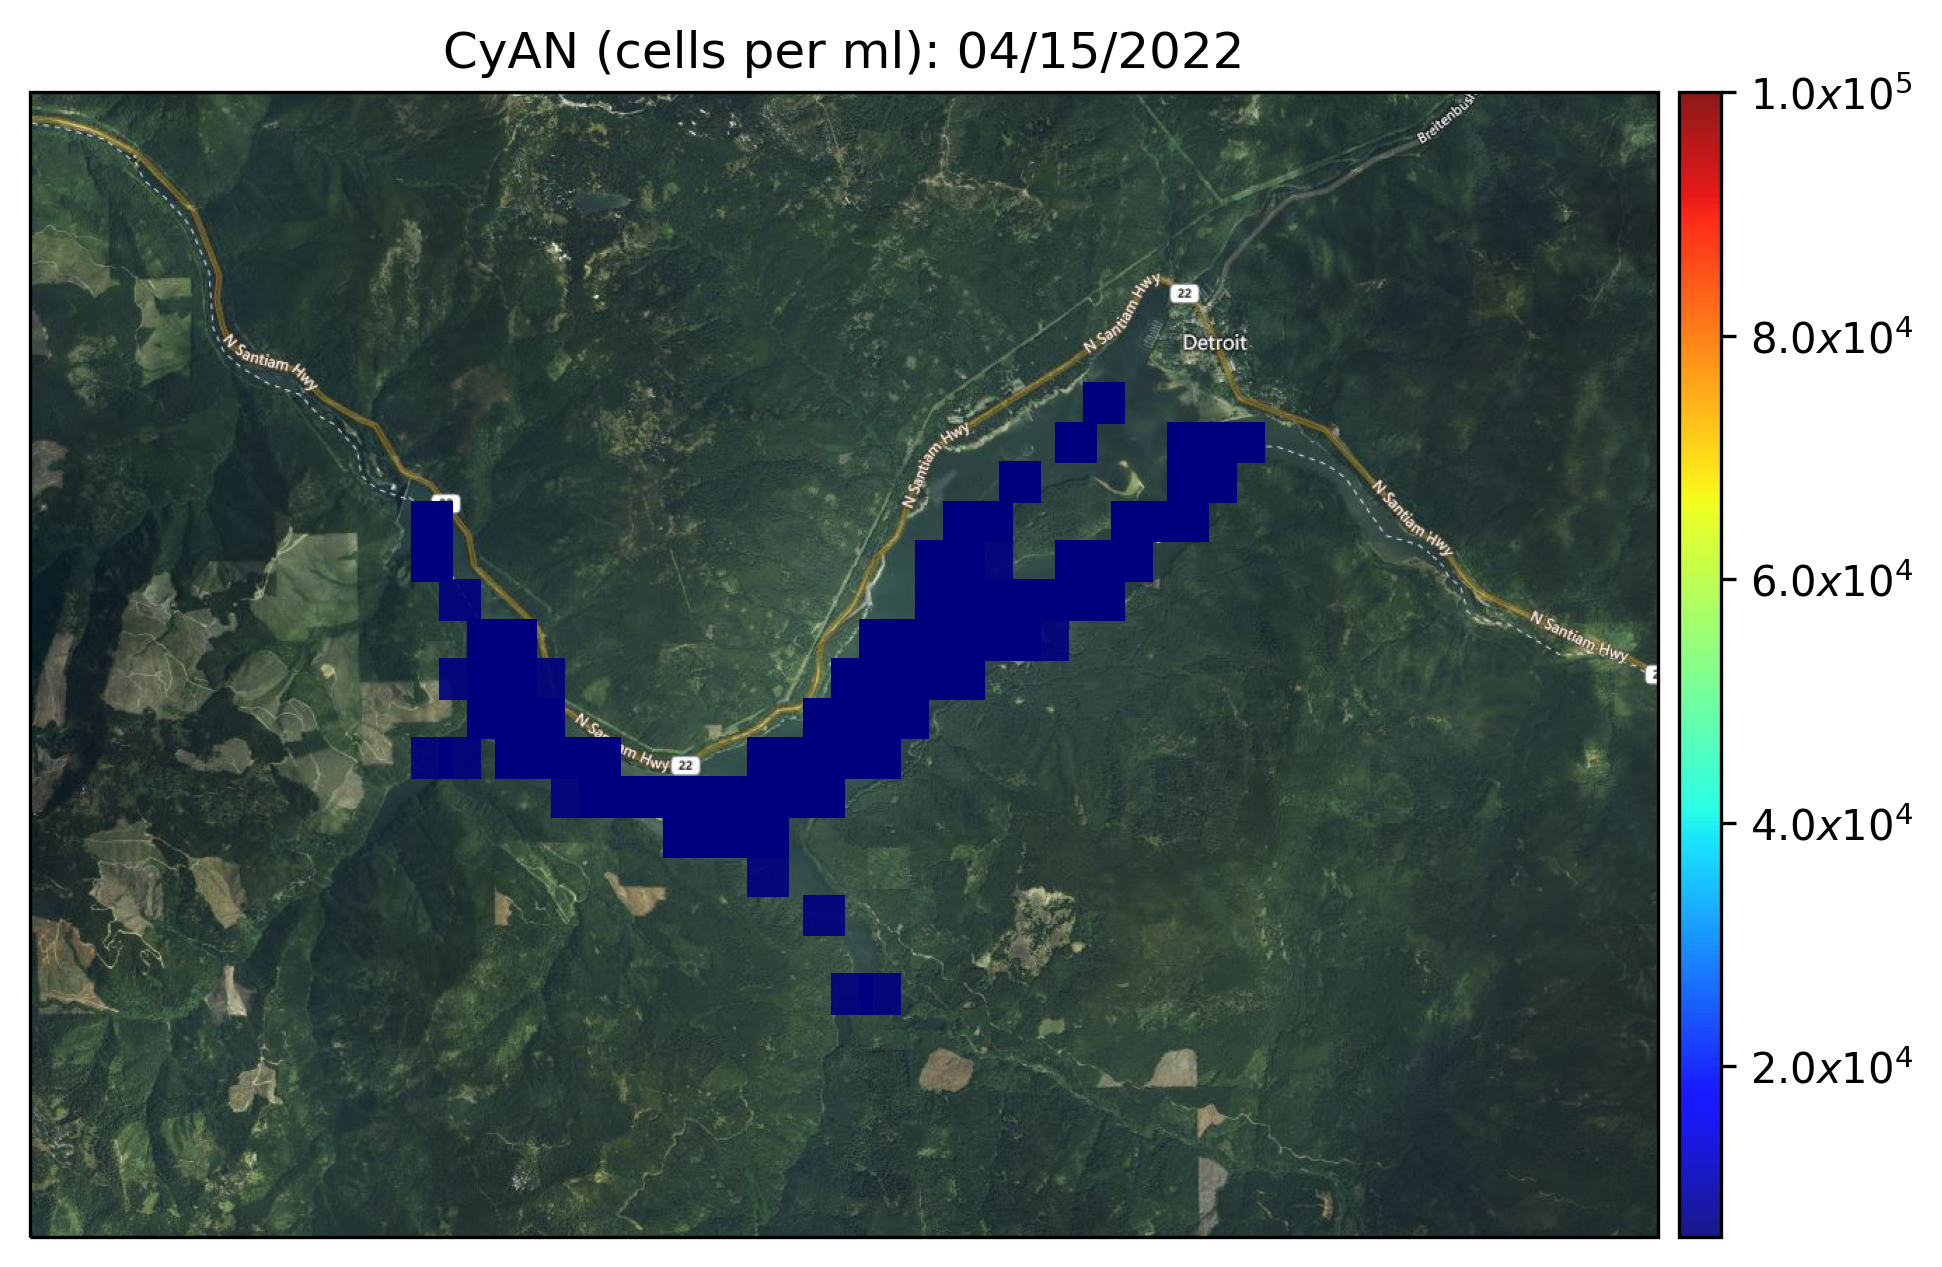
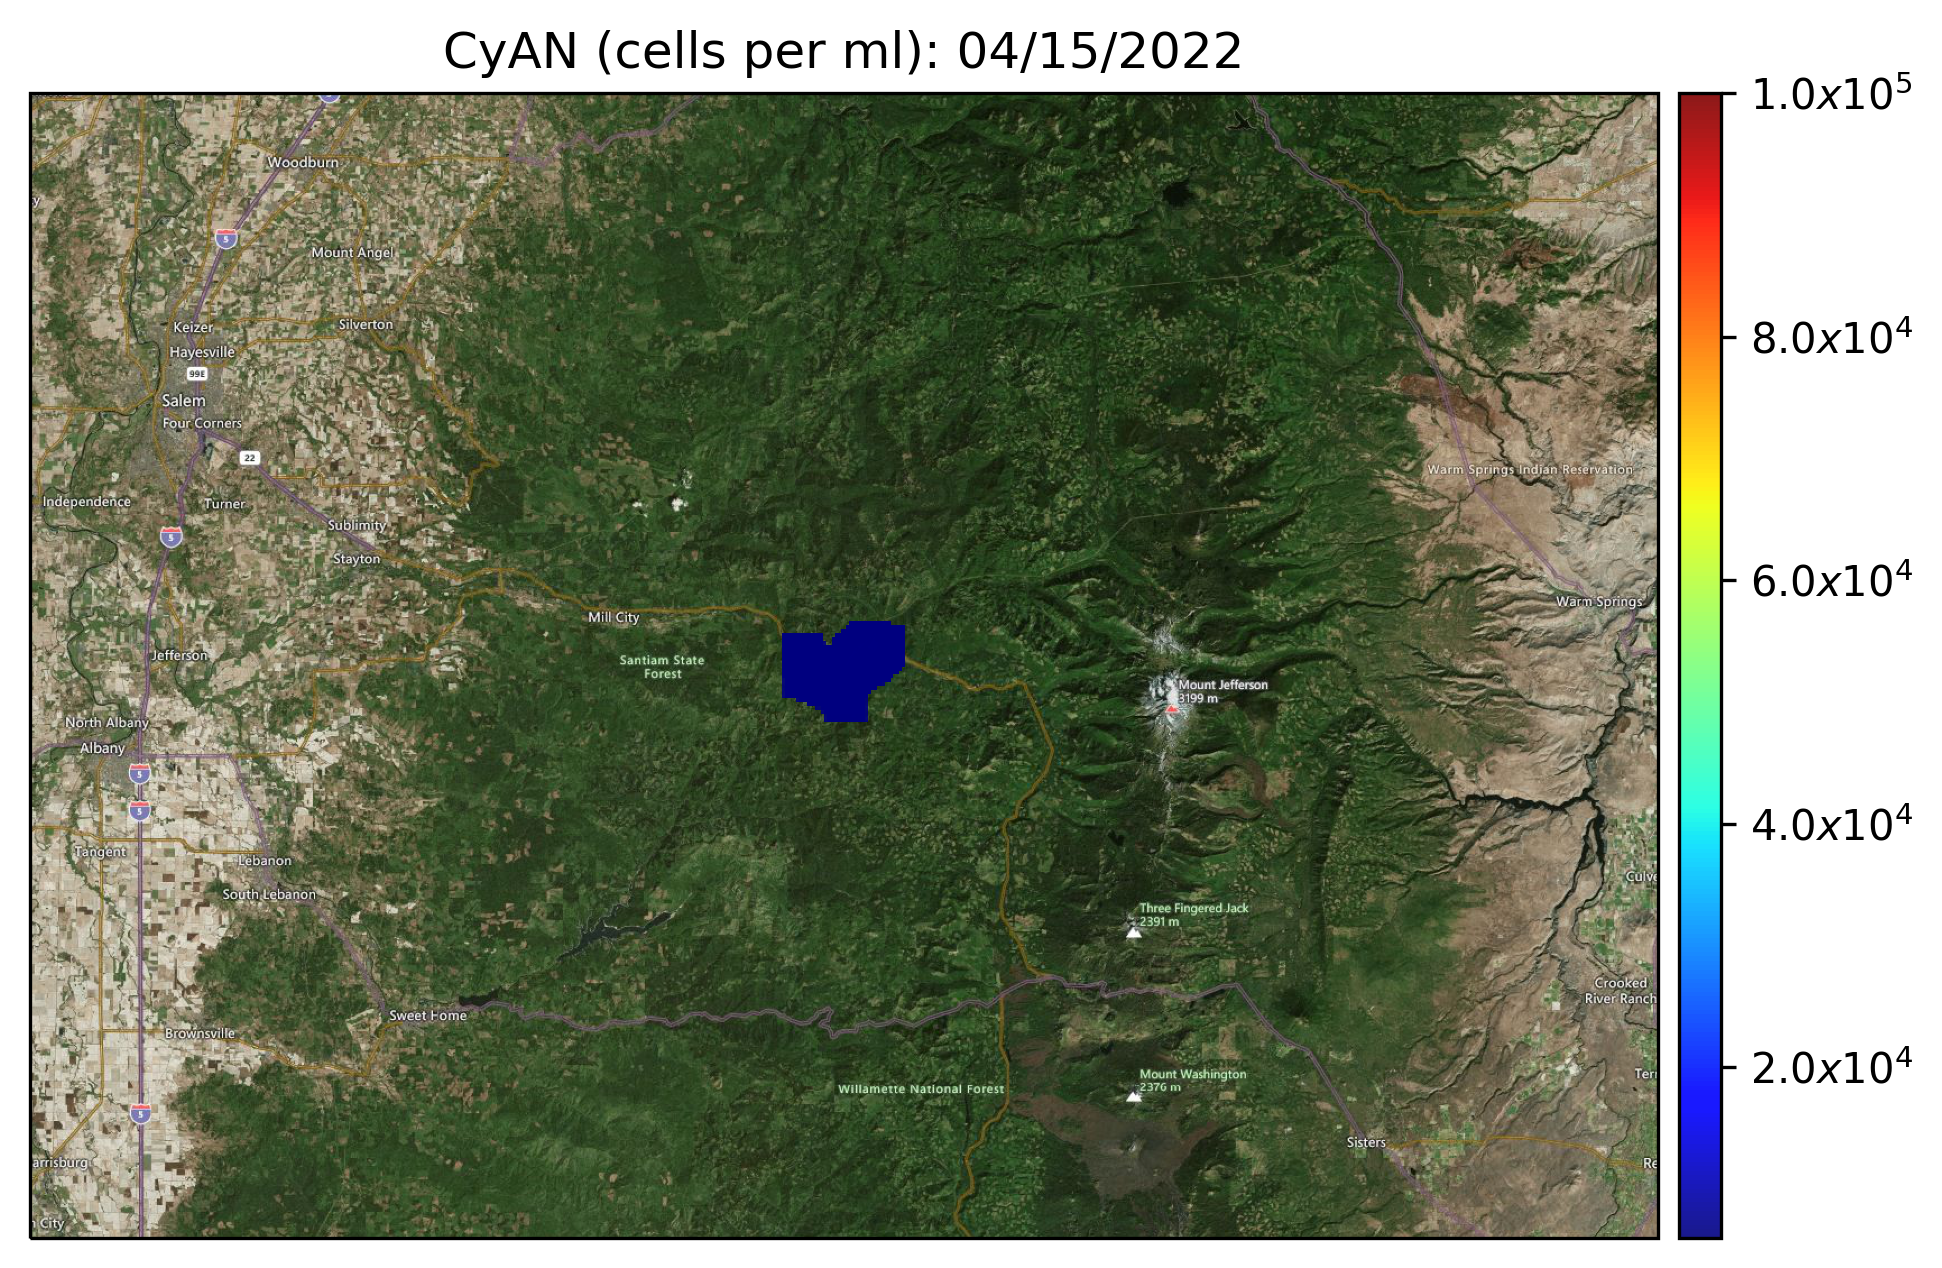
daily blog update

diff --git a/_posts/2022-04-20-blog039.md b/_posts/2022-04-20-blog039.md
@@ -1,0 +1,42 @@
+---
+title: "Apr 20, 2022"
+excerpt: "HAB update"
+image: /assets/images/detroit.jpg
+tags: 
+  - hab
+  - prediction
+---
+## 7-day Look Ahead Bloom Forecast
+Below are pie charts describing the __probability of a cyanobacterial bloom__. The one on the left describes the predictions from two weeks ago, and the one on the right describes the latest prediction, for the coming week. 
+![image-center]({{ site.url }}{{ site.baseurl }}/assets/images/20220420/Fig_prediction.png)
+__Probability of occurrence (%) of an algal bloom from two weeks ago (left) and for the next 7 days (right).__
+
+## Hotspot Analysis - Chlorophyll-a
+This map shows you the latest estimates of __chlorophyll-a__ from the Sentinel 2a satellite. Note that the color scale is normalized to highlight the hotspots in the image relative to yearly maxima and minima. The colorscale does not provide an indication of the absolute amount of chlorophyll-a in the water and should be interpreted as an "index" of chlorophyll-a.
+![image-center]({{ site.url }}{{ site.baseurl }}/assets/images/20220420/Fig_chla_week.png){:             width="600px"}{: .align-center}
+<br clear="all" />
+__Latest chlorophyll-a map from the Sentinel 2a satelllite.__
+
+## Hotspot Analysis - CyAN
+This map shows you the latest estimates of the concentration of cyanobacteria (cells/ml) from the EPA CyAN program.
+![image-center]({{ site.url }}{{ site.baseurl }}/assets/images/20220420/Fig_cyan.png){: width="600px"}{: .align-center}
+<br clear="all" />
+__Latest CyAN map from the EPA.__
+
+
+## Where we are in the season
+This plot shows the __historical expectation for HAB risk__ over the year. Use this chart to see where we are in the season (identified by the vertical red line). 
+![image-center]({{ site.url }}{{ site.baseurl }}/assets/images/20220420/Fig_climatology.png){: .     align-center}
+__Harmful algal bloom risk over the year__.
+
+## How rainy has it been? 
+We know that in general certain weather conditions promote the likelihood of HABs. Check this chart to see 
+how __wet__ it is, relative to past years. This is simply adding up each day's rainfall, for each year. If the red line is below the orange line, then this year is dryer than average.
+![image-center]({{ site.url }}{{ site.baseurl }}/assets/images/20220420/Fig_precip_cumsum.png){: .     align-center}
+__Precipitation at the lake compared to previous years__.
+
+## How hot has it been? 
+We know that in general certain weather conditions promote the likelihood of HABs. Check this chart to see 
+how __hot__ it is, relative to past years. This is simply adding up each day's temperature, for each year. If the red line is above the orange line, this year is hotter than average.
+![image-center]({{ site.url }}{{ site.baseurl }}/assets/images/20220420/Fig_temp_cumsum.png){: .     align-center}
+__Air temperature at the lake compared to previous years__.
